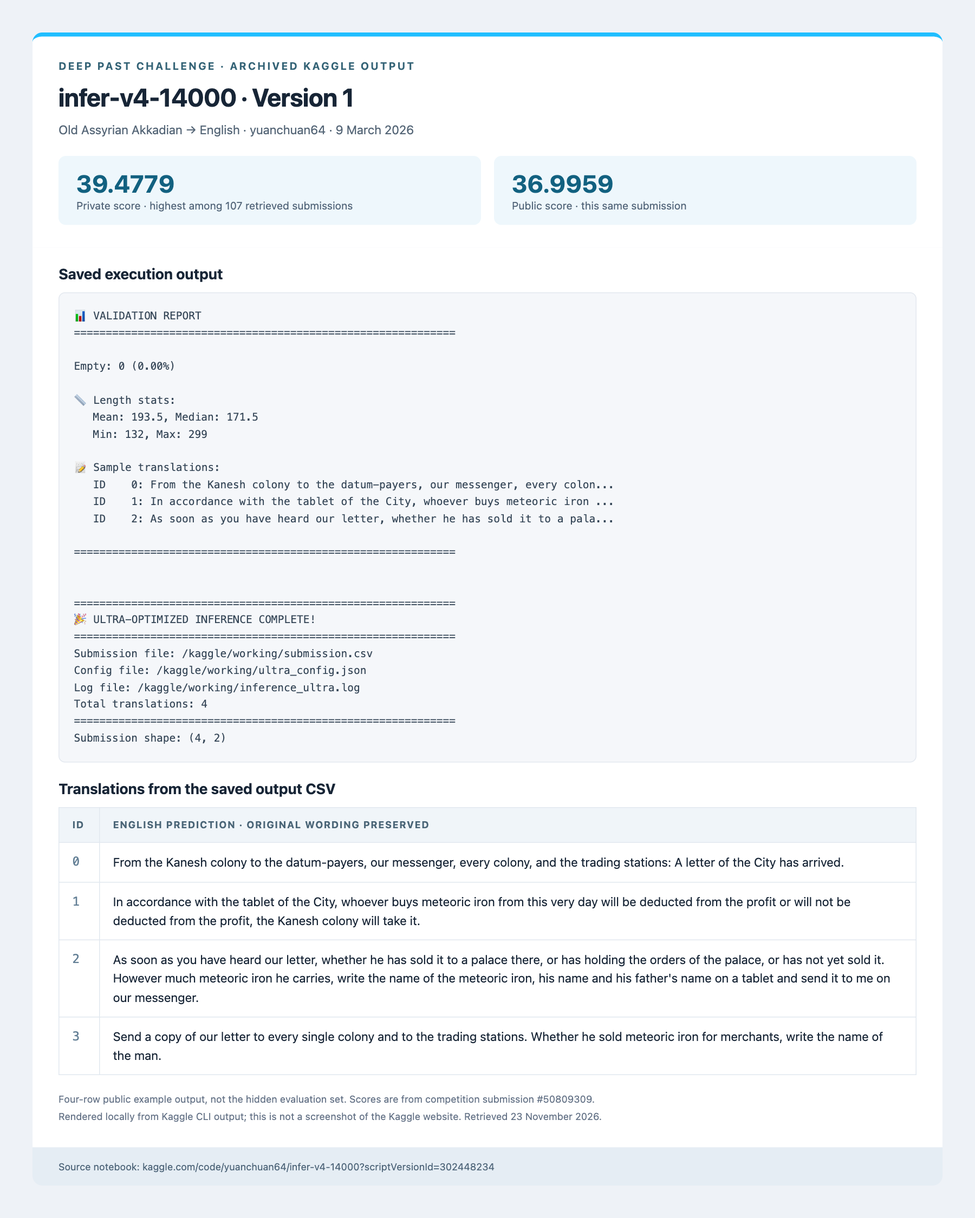
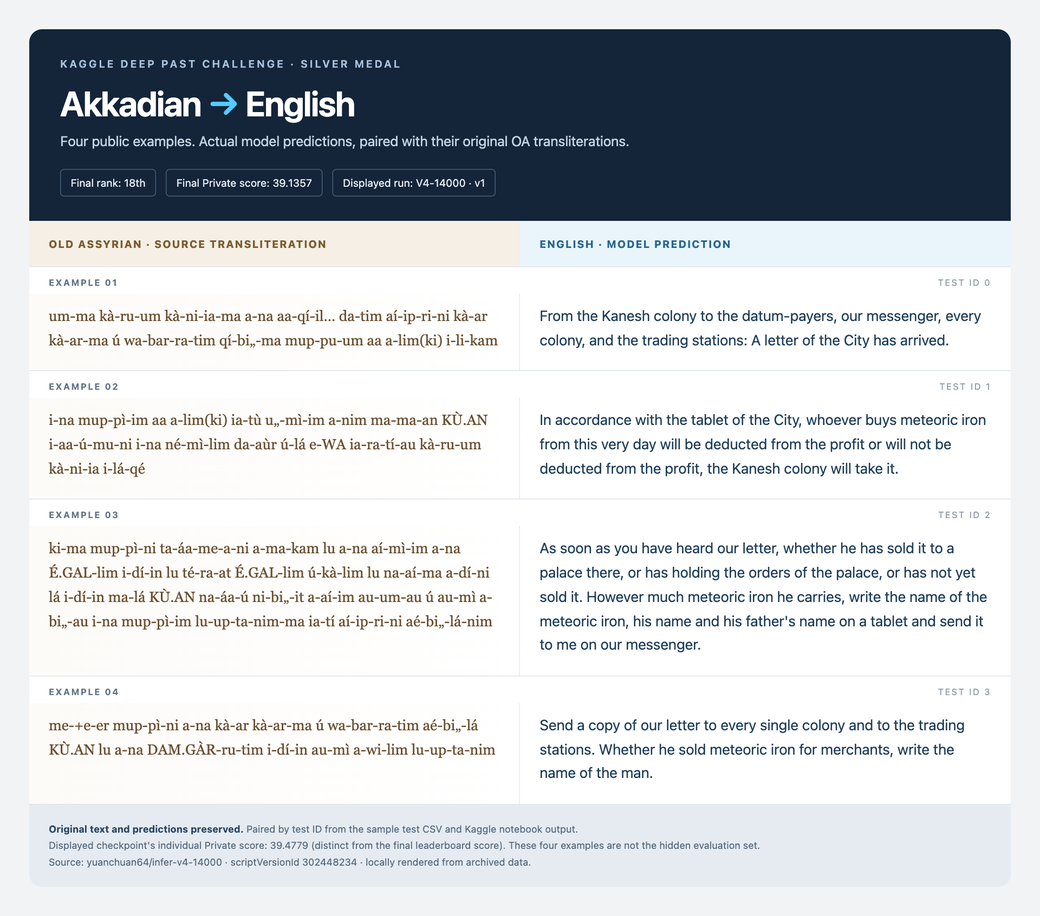
docs: lead with parallel translation showcase and concise project pitch

diff --git a/media/kaggle-v4-14000-output.html b/media/kaggle-v4-14000-output.html
@@ -1,28 +1,2 @@
-<!doctype html><html lang="en"><meta charset="utf-8"><title>Archived Kaggle notebook output</title>
-<style>*{box-sizing:border-box}body{margin:0;background:#eef2f7;color:#172536;font-family:-apple-system,BlinkMacSystemFont,"Segoe UI",sans-serif}main{width:1200px;margin:0 auto;padding:40px}header{border-top:5px solid #20beff;background:white;padding:28px 32px;border-radius:12px 12px 0 0}.eyebrow{font-size:13px;letter-spacing:2px;color:#356477;font-weight:700}h1{margin:12px 0;font-size:31px;letter-spacing:-.6px}.subtitle{font-size:15px;color:#556677}.scores{display:flex;gap:16px;margin-top:24px}.score{background:#eef7fc;padding:16px 22px;border-radius:9px;flex:1}.score strong{font-size:30px;display:block;color:#126180}.score span{font-size:13px;color:#526579}.body{background:#fff;padding:0 32px 28px}h2{font-size:18px;margin:0;padding:22px 0 12px}pre{margin:0;white-space:pre-wrap;overflow-wrap:anywhere;font:13px/1.6 Menlo,monospace;background:#f5f7fa;border:1px solid #e3e8ef;border-radius:8px;padding:18px;color:#354657}table{border-collapse:collapse;width:100%;font-size:15px;line-height:1.55}th{text-align:left;background:#f0f5f9;color:#4a6577;font-size:12px;text-transform:uppercase;letter-spacing:1px}td,th{padding:12px 16px;border:1px solid #e1e8ef;vertical-align:top}td:first-child{width:50px;color:#648096;font-family:Menlo,monospace}.foot{font-size:12px;line-height:1.7;color:#657387;margin:20px 0 0}footer{padding:16px 32px;background:#e5edf4;border-radius:0 0 12px 12px;font-size:12px;color:#4e6579}</style>
-<main><header><div class="eyebrow">DEEP PAST CHALLENGE · ARCHIVED KAGGLE OUTPUT</div><h1>infer-v4-14000 · Version 1</h1><div class="subtitle">Old Assyrian Akkadian → English · yuanchuan64 · 9 March 2026</div><div class="scores"><div class="score"><strong>39.4779</strong><span>Private score · highest among 107 retrieved submissions</span></div><div class="score"><strong>36.9959</strong><span>Public score · this same submission</span></div></div></header><div class="body"><h2>Saved execution output</h2><pre>📊 VALIDATION REPORT
-============================================================
-
-Empty: 0 (0.00%)
-
-📏 Length stats:
-   Mean: 193.5, Median: 171.5
-   Min: 132, Max: 299
-
-📝 Sample translations:
-   ID    0: From the Kanesh colony to the datum-payers, our messenger, every colon...
-   ID    1: In accordance with the tablet of the City, whoever buys meteoric iron ...
-   ID    2: As soon as you have heard our letter, whether he has sold it to a pala...
-
-============================================================
-
-
-============================================================
-🎉 ULTRA-OPTIMIZED INFERENCE COMPLETE!
-============================================================
-Submission file: /kaggle/working/submission.csv
-Config file: /kaggle/working/ultra_config.json
-Log file: /kaggle/working/inference_ultra.log
-Total translations: 4
-============================================================
-Submission shape: (4, 2)</pre><h2>Translations from the saved output CSV</h2><table><thead><tr><th>ID</th><th>English prediction · original wording preserved</th></tr></thead><tbody><tr><td>0</td><td>From the Kanesh colony to the datum-payers, our messenger, every colony, and the trading stations: A letter of the City has arrived.</td></tr><tr><td>1</td><td>In accordance with the tablet of the City, whoever buys meteoric iron from this very day will be deducted from the profit or will not be deducted from the profit, the Kanesh colony will take it.</td></tr><tr><td>2</td><td>As soon as you have heard our letter, whether he has sold it to a palace there, or has holding the orders of the palace, or has not yet sold it. However much meteoric iron he carries, write the name of the meteoric iron, his name and his father&#x27;s name on a tablet and send it to me on our messenger.</td></tr><tr><td>3</td><td>Send a copy of our letter to every single colony and to the trading stations. Whether he sold meteoric iron for merchants, write the name of the man.</td></tr></tbody></table><p class="foot">Four-row public example output, not the hidden evaluation set. Scores are from competition submission #50809309.<br>Rendered locally from Kaggle CLI output; this is not a screenshot of the Kaggle website. Retrieved 23 November 2026.</p></div><footer>Source notebook: kaggle.com/code/yuanchuan64/infer-v4-14000?scriptVersionId=302448234</footer></main></html>
+<!doctype html><html lang="en"><meta charset="utf-8"><title>Akkadian to English · translation examples</title><style>
+*{box-sizing:border-box}body{margin:0;background:#f2f3f5;color:#142439;font-family:-apple-system,BlinkMacSystemFont,"Segoe UI",sans-serif}main{width:1280px;margin:auto;padding:36px}.hero{background:#142439;color:white;padding:34px 38px 30px;border-radius:16px 16px 0 0}.eyebrow{font-size:13px;color:#a7c3dd;letter-spacing:2.6px;font-weight:600}h1{font-size:43px;letter-spacing:-1.3px;margin:15px 0 12px;font-weight:650}h1 span{color:#54cbff}.hero p{margin:0;font-size:17px;color:#c5d4e2}.meta{display:flex;gap:12px;margin-top:24px}.pill{border:1px solid #456078;color:#e6edf3;border-radius:5px;padding:8px 12px;font-size:13px}.head{display:grid;grid-template-columns:1fr 1fr;background:#fff;border-bottom:1px solid #d8e0e8}.head div{padding:20px 24px;font-size:13px;font-weight:750;letter-spacing:1.3px}.head div:first-child{background:#f5efe5;color:#7a5b2c}.head div:last-child{background:#eaf4fb;color:#21658c}.pair{background:#fff;border-bottom:1px solid #d8e0e8}.label{padding:12px 24px 8px;font-size:11px;font-weight:700;color:#627487;letter-spacing:1.5px}.label span{float:right;color:#8e9aa7;font-weight:400}.columns{display:grid;grid-template-columns:1fr 1fr}.columns div{padding:12px 24px 23px;font-size:18px;line-height:1.65;overflow-wrap:anywhere}.oa{font-family:Georgia,"Times New Roman",serif;color:#6b5032;border-right:1px solid #e5e9ee;background:linear-gradient(90deg,#fdfbf8,#fff)}.en{color:#1e3d59}.footer{border-radius:0 0 16px 16px;background:#e5ebf1;padding:20px 24px;font-size:12px;line-height:1.7;color:#55697c}.footer strong{color:#26435f}</style><main><header class="hero"><div class="eyebrow">KAGGLE DEEP PAST CHALLENGE · SILVER MEDAL</div><h1>Akkadian <span>→</span> English</h1><p>Four public examples. Actual model predictions, paired with their original OA transliterations.</p><div class="meta"><div class="pill">Final rank: 18th</div><div class="pill">Final Private score: 39.1357</div><div class="pill">Displayed run: V4-14000 · v1</div></div></header><div class="head"><div>OLD ASSYRIAN · SOURCE TRANSLITERATION</div><div>ENGLISH · MODEL PREDICTION</div></div><section class="pair"><div class="label">EXAMPLE 01 <span>TEST ID 0</span></div><div class="columns"><div class="oa">um-ma kà-ru-um kà-ni-ia-ma a-na aa-qí-il… da-tim aí-ip-ri-ni kà-ar kà-ar-ma ú wa-bar-ra-tim qí-bi„-ma mup-pu-um aa a-lim(ki) i-li-kam</div><div class="en">From the Kanesh colony to the datum-payers, our messenger, every colony, and the trading stations: A letter of the City has arrived.</div></div></section><section class="pair"><div class="label">EXAMPLE 02 <span>TEST ID 1</span></div><div class="columns"><div class="oa">i-na mup-pì-im aa a-lim(ki) ia-tù u„-mì-im a-nim ma-ma-an KÙ.AN i-aa-ú-mu-ni i-na né-mì-lim da-aùr ú-lá e-WA ia-ra-tí-au kà-ru-um kà-ni-ia i-lá-qé</div><div class="en">In accordance with the tablet of the City, whoever buys meteoric iron from this very day will be deducted from the profit or will not be deducted from the profit, the Kanesh colony will take it.</div></div></section><section class="pair"><div class="label">EXAMPLE 03 <span>TEST ID 2</span></div><div class="columns"><div class="oa">ki-ma mup-pì-ni ta-áa-me-a-ni a-ma-kam lu a-na aí-mì-im a-na É.GAL-lim i-dí-in lu té-ra-at É.GAL-lim ú-kà-lim lu na-aí-ma a-dí-ni lá i-dí-in ma-lá KÙ.AN na-áa-ú ni-bi„-it a-aí-im au-um-au ú au-mì a-bi„-au i-na mup-pì-im lu-up-ta-nim-ma ia-tí aí-ip-ri-ni aé-bi„-lá-nim</div><div class="en">As soon as you have heard our letter, whether he has sold it to a palace there, or has holding the orders of the palace, or has not yet sold it. However much meteoric iron he carries, write the name of the meteoric iron, his name and his father&#x27;s name on a tablet and send it to me on our messenger.</div></div></section><section class="pair"><div class="label">EXAMPLE 04 <span>TEST ID 3</span></div><div class="columns"><div class="oa">me-+e-er mup-pì-ni a-na kà-ar kà-ar-ma ú wa-bar-ra-tim aé-bi„-lá KÙ.AN lu a-na DAM.GÀR-ru-tim i-dí-in au-mì a-wi-lim lu-up-ta-nim</div><div class="en">Send a copy of our letter to every single colony and to the trading stations. Whether he sold meteoric iron for merchants, write the name of the man.</div></div></section><footer class="footer"><strong>Original text and predictions preserved.</strong> Paired by test ID from the sample test CSV and Kaggle notebook output.<br>Displayed checkpoint's individual Private score: 39.4779 (distinct from the final leaderboard score). These four examples are not the hidden evaluation set.<br>Source: yuanchuan64/infer-v4-14000 · scriptVersionId 302448234 · locally rendered from archived data.</footer></main></html>

diff --git a/README.md b/README.md
@@ -1,157 +1,55 @@
 <div align="center">
 
-# Deep Past Challenge · Akkadian → English
+# Akkadian → English
 
-### Translating 4,000-year-old records with modern language models.
+### Translating 4,000-year-old records with ByT5-XL
 
-**🥈 Final leaderboard: 18th · Highest leaderboard position: 3rd**
+**🥈 Kaggle Deep Past Challenge · 18th place · Silver medal**<br>
+**Peak leaderboard: #3 · Final Private score: 39.1357**
 
-[![Kaggle: Silver Medal](https://img.shields.io/badge/Kaggle-Silver_Medal-C0C0C0?logo=kaggle&logoColor=white)](https://www.kaggle.com/competitions/deep-past-initiative-machine-translation/leaderboard)
-[![Final rank: 18th](https://img.shields.io/badge/Final_Rank-18th-20BEFF)](https://www.kaggle.com/competitions/deep-past-initiative-machine-translation/leaderboard)
-[![Task: Low-resource MT](https://img.shields.io/badge/Task-Low--resource_MT-7057ff)](#the-challenge)
+[![Model weights](https://img.shields.io/badge/🤗_Hugging_Face-Model_Weights-ffd21e)](https://huggingface.co/TaiE64/OA2Eng-ByT5XL-V4-14000)
+[![Leaderboard](https://img.shields.io/badge/Kaggle-18th_Place-20BEFF?logo=kaggle&logoColor=white)](https://www.kaggle.com/competitions/deep-past-initiative-machine-translation/leaderboard)
 
-**[English](README.md) · [简体中文](README.zh-CN.md)**
-
-[🤗 Model weights](https://huggingface.co/TaiE64/OA2Eng-ByT5XL-V4-14000) · [Best-scoring output](#best-scoring-notebook-output) · [Competition](https://www.kaggle.com/competitions/deep-past-initiative-machine-translation) · [Inference notebooks](submission/README.md) · [Data-format notes](data_format_rules.md) · [Configuration notes](params.md)
+**[English](README.md) · [简体中文](README.zh-CN.md) · [Model](https://huggingface.co/TaiE64/OA2Eng-ByT5XL-V4-14000) · [Run the notebooks](submission/README.md)**
 
 </div>
 
-My competition archive for Kaggle's **Deep Past Challenge — Translate Akkadian to English**, covering Old Assyrian transliteration, data preparation, and notebook inference. The result: **18th place and a silver medal**, with a highest leaderboard position of **3rd**, as recorded in the original project README.
+My silver-medal project for translating **Old Assyrian Akkadian transliterations into English**: public model weights, inference notebooks, and the data-processing work behind the competition.
 
-The useful work here goes beyond a model call: extracting parallel text from scholarly publications, handling damaged-text markers and unusual characters, reconciling document-level data with sentence-level evaluation, and producing translations in an offline Kaggle runtime.
+## See the translations
 
-## At a glance
+![Old Assyrian source text and actual English predictions, side by side](media/kaggle-v4-14000-output.png)
 
-| Result / artifact | Details |
-|---|---|
-| Final leaderboard | **18th · Silver medal · Private score 39.1357** |
-| Highest leaderboard position | **3rd** |
-| Task | Old Assyrian Akkadian transliteration → English |
-| Model entry point | ByT5-XL checkpoint inference notebook, plus a backup notebook |
-| Data work | PDF extraction, text normalization, filtering, deduplication, and sentence-level resources |
-| Evaluation | Corpus-level geometric mean of BLEU and chrF++ |
+*Four public examples from `infer-v4-14000`, paired by ID with their original OA text. Predictions are unchanged. [Text version](media/evidence/v4-14000-parallel-preview.csv) · [Kaggle run](https://www.kaggle.com/code/yuanchuan64/infer-v4-14000?scriptVersionId=302448234) · [Score provenance](media/evidence/provenance.json).*
 
-The [final leaderboard](https://www.kaggle.com/competitions/deep-past-initiative-machine-translation/leaderboard), checked through the Kaggle API, lists **JoJoImpact at rank 18 with score 39.1357**. The silver medal and peak rank follow the author's record. The highest individual Private score below is a different record from the score counted on the final leaderboard.
+The displayed run achieved **39.4779 Private**—the best individual submission in the account. The **final leaderboard result is 18th / 39.1357**; these are different records.
 
-## Best-scoring notebook output
+## Get the model
 
-The authenticated Kaggle API returned **107 submissions** for this competition. Their highest Public and Private scores come from different submissions. **The final leaderboard score is 39.1357; the individual best of 39.4779 was not the score used for the final rank.**
-
-| Selection | Notebook | Public score | Private score |
-|---|---|---:|---:|
-| **Highest Private score** | [infer-v4-14000](https://www.kaggle.com/code/yuanchuan64/infer-v4-14000?scriptVersionId=302448234) | 36.9959 | **39.4779** |
-| Highest Public score | [akkadian-baseline-ref](https://www.kaggle.com/code/yuanchuan64/akkadian-baseline-ref?scriptVersionId=302745772) | **38.5569** | 39.1302 |
-
-![Archived output from the highest-Private-score notebook](media/kaggle-v4-14000-output.png)
-
-*Original Kaggle execution output and predictions, rendered locally for readability. The four examples are from the notebook's public example run, not the hidden evaluation set. Notebook links may require access because the originals are private. [Output CSV](media/evidence/v4-14000-preview.csv) · [Log excerpt](media/evidence/v4-14000-output.txt) · [Score and version provenance](media/evidence/provenance.json).*
-
-## Download the checkpoint
-
-**[🤗 TaiE64/OA2Eng-ByT5XL-V4-14000](https://huggingface.co/TaiE64/OA2Eng-ByT5XL-V4-14000)** is publicly available without gated access. It contains approximately **3.74B parameters**, BF16 safetensors weights, and model/tokenizer configuration files; the download is approximately **7.5 GB**.
+**[🤗 TaiE64/OA2Eng-ByT5XL-V4-14000](https://huggingface.co/TaiE64/OA2Eng-ByT5XL-V4-14000)** · ~3.74B parameters · BF16 · ~7.5 GB · Public download
 
 ```bash
-python -m pip install huggingface_hub
-hf download TaiE64/OA2Eng-ByT5XL-V4-14000 \
-  --revision f328700ddf5095623bb5903105e41b4b8d36da3f \
-  --local-dir ./models/OA2Eng-ByT5XL-V4-14000
+pip install huggingface_hub
+hf download TaiE64/OA2Eng-ByT5XL-V4-14000 --local-dir ./models/OA2Eng-ByT5XL-V4-14000
 ```
 
-Point `UltraConfig.model_path` at the downloaded folder, or attach it as a Kaggle model dataset for offline inference. This owner-provided V4-14000 release matches the version naming of the highest-Private-score notebook's `akkadian-v4-14000` dataset; binary equality between those artifacts has not been checked. It is a separate checkpoint from the archived `fft5400` notebook's default. See the [setup guide](submission/README.md#public-hugging-face-checkpoint).
+Set the notebook's `UltraConfig.model_path` to your model directory. For Kaggle, attach the downloaded model as a dataset and use its mounted path. [Setup and version details →](submission/README.md)
 
-## The challenge
+## Behind the result
 
-The inputs are **Latin-script transliterations of cuneiform texts**, not tablet photographs. They contain syllable separators, diacritics, logograms, determinatives, missing signs, names, quantities, and units. Small formatting differences can therefore matter throughout the translation pipeline.
+- **Data curation:** extract parallel text from scholarly PDFs, filter noisy pairs, and deduplicate sources.
+- **Akkadian normalization:** handle gaps, determinatives, diacritics, subscripts, and fractions.
+- **ByT5 inference:** beam search, length-bucket batching, and translation postprocessing.
 
-There is also a granularity mismatch: the competition's original parallel training data is document-aligned, while evaluation uses sentence-level translations. The [data-format notes](data_format_rules.md) document the alignment problem and the competition-era formatting updates.
+## Explore
 
-The official evaluation aggregates across the corpus:
-
-```text
-score = sqrt(BLEU × chrF++)
-```
-
-See the [competition evaluation](https://www.kaggle.com/competitions/deep-past-initiative-machine-translation/overview) for the scoring definition. The optional sentence-level similarity used by the notebook's MBR selector serves a different purpose.
-
-## What you can explore
-
-- **ByT5-XL checkpoint inference.** The [`fft5400` notebook](submission/fft5400/akkadian-fft5400.ipynb) loads a local sequence-to-sequence checkpoint and generates English translations with beam search.
-- **Domain-specific normalization.** Input processing handles gap markers, determinatives, subscript digits, character variants, floating-point artifacts, and Unicode fractions.
-- **Data extraction from publications.** AKT extraction scripts account for page columns, line numbers, font-encoded diacritics, and superscripts/subscripts when assembling parallel text.
-- **Corpus cleanup.** Helpers inspect overlap and filter empty pairs, abnormal source/target length ratios, duplicate sources, and copy errors.
-- **Inference controls.** Length-bucket batching, configurable generation limits, periodic output checkpoints, and translation postprocessing are implemented in the notebooks.
-- **An optional MBR path.** Candidate generation and a chrF++-style consensus selector are included for experimentation. **MBR is disabled in the checked-in defaults**; no final-score gain is claimed for it.
-
-## Pipeline overview
-
-```mermaid
-flowchart LR
-    A[Competition and external text] --> B[Extract and curate parallel pairs]
-    B --> C[Normalize transliteration and English]
-    C --> D[Model adaptation: training notes]
-    D -. checkpoint required .-> E[Local seq2seq checkpoint]
-    T[Test transliteration] --> N[Input normalization]
-    N --> I[Notebook inference]
-    E --> I
-    I --> P[Translation postprocessing]
-    P --> S[submission.csv]
-```
-
-The data helpers and inference notebooks are available here. Training is represented by [notes](params.md); the full trainer is not included, and model weights are published separately on [Hugging Face](https://huggingface.co/TaiE64/OA2Eng-ByT5XL-V4-14000).
-
-## Start here
-
-| If you want to… | Open |
+| Resource | Contents |
 |---|---|
-| Inspect the inference implementation | [`akkadian-fft5400.ipynb`](submission/fft5400/akkadian-fft5400.ipynb) |
-| Set up a Kaggle run | [Notebook setup guide](submission/README.md) |
-| Compare the backup preprocessing path | [`akkadian-baseline-ref.ipynb`](submission/BackUp_Submission/akkadian-baseline-ref.ipynb) |
-| Understand the text-format pitfalls | [Data-format rules](data_format_rules.md) |
-| Read the PDF extraction logic | [`extract_akt6.py`](data/03_new_extracted/extract_akt6.py), [`extract_akt8.py`](data/03_new_extracted/extract_akt8.py) |
-| Inspect corpus cleaning | [`deep_clean_all.py`](data/01_safe_training/scripts/deep_clean_all.py), [`clean_akt.py`](data/03_new_extracted/clean_akt.py) |
-| Check recorded hyperparameters and notebook defaults | [Configuration notes](params.md) |
+| [Inference notebooks](submission/README.md) | Kaggle setup, checkpoint paths, and runtime details |
+| [Data-format notes](data_format_rules.md) | Competition-specific text normalization and alignment |
+| [PDF extraction](data/03_new_extracted/) | AKT extraction scripts and parallel-text exports |
+| [Training notes](params.md) | Recorded hyperparameters and inference defaults |
 
-To browse locally:
+Special thanks to **Ivan C**, the Deep Past Initiative, and the model and data contributors.
 
-```bash
-git clone https://github.com/TaiE64/KaggleDeepPast-Challenge-Akkadian2English-LB18th.git
-cd KaggleDeepPast-Challenge-Akkadian2English-LB18th
-```
-
-For inference, upload a notebook to Kaggle, attach the competition data and the matching model dataset, and review `UltraConfig` before running. The [setup guide](submission/README.md) lists the dataset identifiers and expected outputs.
-
-## Repository map
-
-```text
-submission/
-  fft5400/                  ByT5-XL checkpoint inference notebook + Kaggle metadata
-  BackUp_Submission/        Backup notebook, saved settings, and example predictions
-  *_wheel*/                 Archived offline dependency assets
-data/
-  competition/              Competition tables and reference metadata
-  01_safe_training/         Curated tables, backups, generated data, cleaning helpers
-  03_new_extracted/         AKT extraction / cleanup scripts and exported pairs
-  03_auxiliary/             Auxiliary reference material
-  04_reference/             Publication and grammar resources (many LFS pointers)
-  external/leiwong/         Extended corpus and dictionary with their own README
-PdfExtraction/              AKT extraction CSV exports
-data_format_rules.md        Detailed competition-era format and data notes
-params.md                   Recorded training notes and current inference defaults
-```
-
-The checked-in `merged_all.csv` contains **69,211 rows**. That is the size of this archived table, not a claim that every row was used in the final training run. Likewise, extraction CSVs represent intermediate versions and should not be added together as a unique corpus total.
-
-## Reproduction notes
-
-- **Download the released weights.** The [V4-14000 checkpoint](https://huggingface.co/TaiE64/OA2Eng-ByT5XL-V4-14000) is public on Hugging Face. Other archived notebooks target different Kaggle datasets; check the model path before running.
-- **Read source, not just saved output.** The notebooks retain older execution logs, including paths/settings that differ from the current source. Run a fresh session to obtain current results.
-- **Check large-file contents.** Several PDFs and large CSVs are Git LFS pointer files in a fresh checkout; resolve the assets before using extraction scripts. The published notebook can be inspected without those PDFs.
-- **Review helper paths.** Some data-cleaning scripts retain original Windows paths and write CSVs in place. Adapt the paths and work on a copy when exploring them.
-
-## Acknowledgements
-
-Special thanks to **Ivan C**, acknowledged in the original project README. Thanks also to the Deep Past Initiative and Kaggle organizers, the scholars behind the source texts and translations, and the model and data contributors whose work supports this archive.
-
-Third-party datasets, publications, models, and dependency assets retain their own terms and attribution. No repository-wide code license is currently specified.
-
-If the notebooks or data-processing notes help your work on low-resource translation, **a star is appreciated**. Reproducible issues and improvements to the documentation, preprocessing, or setup are welcome.
+**If this helps your low-resource NLP work, give it a ⭐ and share what you build.**

diff --git a/README.zh-CN.md b/README.zh-CN.md
@@ -1,118 +1,55 @@
 <div align="center">
 
-# Deep Past Challenge · 阿卡德语 → 英语
+# 阿卡德语 → 英语
 
-### 用现代语言模型，读懂四千年前的商业文书。
+### 用 ByT5-XL，读懂四千年前的商业文书
 
-**🥈 最终第 18 名 · 银牌 · 最高冲到第 3 名**
+**🥈 Kaggle Deep Past Challenge · 最终第 18 名 · 银牌**<br>
+**最高榜位：第 3 名 · 最终 Private 分：39.1357**
 
-[![Kaggle: Silver Medal](https://img.shields.io/badge/Kaggle-Silver_Medal-C0C0C0?logo=kaggle&logoColor=white)](https://www.kaggle.com/competitions/deep-past-initiative-machine-translation/leaderboard)
-[![Final rank: 18th](https://img.shields.io/badge/Final_Rank-18th-20BEFF)](https://www.kaggle.com/competitions/deep-past-initiative-machine-translation/leaderboard)
+[![Model weights](https://img.shields.io/badge/🤗_Hugging_Face-Model_Weights-ffd21e)](https://huggingface.co/TaiE64/OA2Eng-ByT5XL-V4-14000)
+[![Leaderboard](https://img.shields.io/badge/Kaggle-18th_Place-20BEFF?logo=kaggle&logoColor=white)](https://www.kaggle.com/competitions/deep-past-initiative-machine-translation/leaderboard)
 
-[English](README.md) · **简体中文** · [🤗 模型权重](https://huggingface.co/TaiE64/OA2Eng-ByT5XL-V4-14000) · [比赛主页](https://www.kaggle.com/competitions/deep-past-initiative-machine-translation) · [推理运行指南](submission/README.md)
+**[English](README.md) · 简体中文 · [下载模型](https://huggingface.co/TaiE64/OA2Eng-ByT5XL-V4-14000) · [运行指南](submission/README.md)**
 
 </div>
 
-这是我参加 Kaggle **Deep Past Challenge — Translate Akkadian to English** 的项目归档。比赛要求将古亚述阿卡德语的转写文本翻译成英语；我最终取得 **第 18 名、银牌**，比赛期间最高到过 **第 3 名**。
+我的 Kaggle 银牌项目：把**古亚述阿卡德语转写文本翻译成英语**。这里分享模型权重、推理 notebook，以及比赛中的数据处理经验。
 
-仓库保留了围绕这项任务做的数据与推理工作：**从学术文献提取平行语料、清洗和统一文本格式，再用序列到序列模型生成英文译文**。除了成绩，也希望这些处理低资源语言数据的经验能被更多人复用。
+## 直接看翻译效果
 
-## 项目看点
+![OA 原文与模型英文译文左右对照](media/kaggle-v4-14000-output.png)
 
-| 方面 | 内容 |
-|---|---|
-| 比赛成绩 | 最终 **18th / Silver**，最终 Private 分 **39.1357**；最高榜位 **3rd** |
-| 模型入口 | ByT5-XL checkpoint 推理 notebook，以及备用 notebook |
-| 数据工程 | PDF 对译提取、字符与残缺标记规范化、过滤、去重、句子级资源 |
-| 推理实现 | Beam search、按长度分桶、生成参数控制、结果检查与后处理 |
-| 可选实验 | 基于 chrF++ 风格相似度的 MBR 候选选择；当前默认关闭 |
-| 评估指标 | 语料级 BLEU 与 chrF++ 的几何平均 |
+*四条公开样例，按 ID 对齐 OA 原文与 `infer-v4-14000` 的真实输出，译文未改写。[文字版](media/evidence/v4-14000-parallel-preview.csv) · [Kaggle 运行版本](https://www.kaggle.com/code/yuanchuan64/infer-v4-14000?scriptVersionId=302448234) · [成绩记录](media/evidence/provenance.json)。*
 
-已通过 Kaggle API 核对[最终榜单](https://www.kaggle.com/competitions/deep-past-initiative-machine-translation/leaderboard)：**JoJoImpact 第 18 名，最终计分 39.1357**。银牌与最高榜位沿用作者记录。下方的单次最高 Private 分是另一项记录，不是最终榜单采用的分数。
+展示版本的单次 **Private 分为 39.4779**，是账号所有提交中的最高值；**最终榜单成绩为第 18 名 / 39.1357**，两者分开标注。
 
-## 最高分 notebook 的真实输出
+## 下载模型
 
-已核对本场比赛的 **107 条提交**。Public 与 Private 最高分来自不同提交。**最终榜单使用 39.1357；单次最高的 39.4779 并未作为最终排名分数。**
-
-| 记录 | Notebook | Public | Private |
-|---|---|---:|---:|
-| **Private 最高分** | [infer-v4-14000](https://www.kaggle.com/code/yuanchuan64/infer-v4-14000?scriptVersionId=302448234) | 36.9959 | **39.4779** |
-| Public 最高分 | [akkadian-baseline-ref](https://www.kaggle.com/code/yuanchuan64/akkadian-baseline-ref?scriptVersionId=302745772) | **38.5569** | 39.1302 |
-
-![最高 Private 分版本的 Kaggle 原始运行输出](media/kaggle-v4-14000-output.png)
-
-*图中内容取自 Kaggle 保存的原始日志和预测 CSV，在本地排版渲染；不是 Kaggle 网页截图。展示的是 4 条公开样例，非隐藏评估集。原 notebook 为私有，访问链接可能需要权限。[原始预测 CSV](media/evidence/v4-14000-preview.csv) · [日志片段](media/evidence/v4-14000-output.txt) · [分数与版本记录](media/evidence/provenance.json)。*
-
-## 下载公开模型
-
-**[🤗 TaiE64/OA2Eng-ByT5XL-V4-14000](https://huggingface.co/TaiE64/OA2Eng-ByT5XL-V4-14000)** 已公开，无需申请访问。仓库包含约 **3.74B 参数**的 BF16 safetensors 权重以及模型、tokenizer 配置，下载约 **7.5 GB**。
+**[🤗 TaiE64/OA2Eng-ByT5XL-V4-14000](https://huggingface.co/TaiE64/OA2Eng-ByT5XL-V4-14000)** · 约 3.74B 参数 · BF16 · 约 7.5 GB · 公开下载
 
 ```bash
-python -m pip install huggingface_hub
-hf download TaiE64/OA2Eng-ByT5XL-V4-14000 \
-  --revision f328700ddf5095623bb5903105e41b4b8d36da3f \
-  --local-dir ./models/OA2Eng-ByT5XL-V4-14000
+pip install huggingface_hub
+hf download TaiE64/OA2Eng-ByT5XL-V4-14000 --local-dir ./models/OA2Eng-ByT5XL-V4-14000
 ```
 
-将 notebook 的 `UltraConfig.model_path` 指向下载目录，或把模型挂载为 Kaggle 数据集后离线推理。HF 发布版本与最高 Private 分 notebook 使用的数据集名称均为 V4-14000，但未做二进制一致性校验；它与归档中 `fft5400` 的默认 checkpoint 是不同版本。
+将 notebook 的 `UltraConfig.model_path` 指向模型目录；在 Kaggle 上运行时，把模型挂载为数据集并填写对应路径。[详细运行说明 →](submission/README.md)
 
-## 这道题难在哪里？
+## 方案亮点
 
-**输入是楔形文字的拉丁字母转写，不是泥板照片。** 文本里包含音节分隔符、变音符号、苏美尔语词符、限定词、残缺标记、人名，以及各种数量和单位。格式处理会贯穿数据准备、模型输入和输出后处理。
+- **数据整理：** 从学术 PDF 提取对译，过滤噪声并去重。
+- **转写规范化：** 处理残缺标记、限定词、变音符号、下标与分数。
+- **ByT5 推理：** Beam search、按长度分桶，以及译文后处理。
 
-另一个关键问题是粒度不一致：原始训练对译按文档对齐，评估则使用句子级翻译。完整的数据格式变化和处理记录见 [data_format_rules.md](data_format_rules.md)。
+## 继续探索
 
-比赛按整个语料计算：
-
-```text
-score = sqrt(BLEU × chrF++)
-```
-
-指标定义见 [Kaggle 官方说明](https://www.kaggle.com/competitions/deep-past-initiative-machine-translation/overview)。Notebook 的可选 MBR 路径使用句子级候选相似度，两者用途不同。
-
-## 仓库中可以直接研究什么？
-
-- **推理代码：** [fft5400 notebook](submission/fft5400/akkadian-fft5400.ipynb) 从本地加载模型与 tokenizer，执行 beam search 并输出英文译文。
-- **转写规范化：** 统一 `<gap>`、限定词、Unicode 下标、字符变体、浮点数伪影和分数格式。
-- **PDF 提取：** [AKT 6 提取脚本](data/03_new_extracted/extract_akt6.py) 处理双栏版面、行号、字体编码的变音符号及上下标；[AKT 8 脚本](data/03_new_extracted/extract_akt8.py) 提供另一组出版物提取逻辑。
-- **语料清洗：** 检查空对译、异常长度比例、重复源文本和源目标相同的复制错误。
-- **候选选择实验：** 代码保留 MBR 分支，但当前默认 `use_mbr=False`，不把它描述为最终成绩的已验证增益。
-
-## 如何开始
-
-```bash
-git clone https://github.com/TaiE64/KaggleDeepPast-Challenge-Akkadian2English-LB18th.git
-cd KaggleDeepPast-Challenge-Akkadian2English-LB18th
-```
-
-1. 先读 [推理运行指南](submission/README.md)，选择 notebook。
-2. 在 Kaggle 准备比赛数据与对应 checkpoint，检查 `UltraConfig` 中的路径。
-3. 运行新会话，检查生成的 `submission.csv`、配置和日志。
-4. 想理解数据侧处理，接着看 [格式规则](data_format_rules.md) 与 [参数记录](params.md)。
-
-模型权重已单独发布在 [Hugging Face](https://huggingface.co/TaiE64/OA2Eng-ByT5XL-V4-14000)；Git 仓库未包含完整训练程序，训练部分目前保留的是参数笔记。当前归档适合阅读、分析和适配，完整复现最终成绩还需要匹配的训练与提交资产。
-
-## 目录导航
-
-| 路径 | 内容 |
+| 入口 | 内容 |
 |---|---|
-| [submission/fft5400/](submission/fft5400/) | ByT5-XL checkpoint 推理 notebook 与 Kaggle 元数据 |
-| [submission/BackUp_Submission/](submission/BackUp_Submission/) | 备用 notebook、保存的配置和示例预测 |
-| [data/01_safe_training/](data/01_safe_training/) | 整理后的数据表、备份、生成数据及清洗脚本 |
-| [data/03_new_extracted/](data/03_new_extracted/) | AKT 提取、清洗脚本与导出结果 |
-| [PdfExtraction/](PdfExtraction/) | AKT 对译 CSV 导出 |
-| [data/competition/](data/competition/) | 比赛数据表和参考元数据 |
-| [data/04_reference/](data/04_reference/) | 出版物和语法资源，许多文件为 LFS 指针 |
-| [data/external/leiwong/](data/external/leiwong/) | 附带独立说明的扩展语料与词典 |
+| [推理 notebook](submission/README.md) | Kaggle 运行方法、模型路径与版本说明 |
+| [数据格式笔记](data_format_rules.md) | 文本规范化与对齐中的问题 |
+| [PDF 提取](data/03_new_extracted/) | AKT 提取脚本与对译导出 |
+| [参数记录](params.md) | 训练笔记与推理配置 |
 
-当前 `merged_all.csv` 实测包含 **69,211 行**，这是该归档表的行数，不代表最终训练使用了全部记录。不同提取版本之间可能有重叠，不能直接相加当成唯一语料总量。
+特别感谢 **Ivan C**、Deep Past Initiative，以及相关模型和数据的贡献者。
 
-运行前注意三点：notebook 的旧输出可能与现有源码不同；部分大文件需要先获取实际内容；一些数据脚本仍保留原 Windows 路径并原地写回 CSV，探索时应使用副本。
-
-## 致谢
-
-特别感谢原 README 中致谢的 **Ivan C**。也感谢 Deep Past Initiative、Kaggle、原始文献与翻译的学者，以及相关模型和数据的贡献者。
-
-第三方数据、出版物、模型和依赖资产保留各自许可与署名要求；仓库目前未指定统一的代码许可证。
-
-如果这些代码和记录对你的低资源机器翻译研究有帮助，欢迎 **Star**，也欢迎交流数据处理、推理复现和古语言翻译中的问题。
+**如果对你的低资源 NLP 研究有帮助，欢迎点个 ⭐，也欢迎交流复现与改进。**

diff --git a/submission/README.md b/submission/README.md
@@ -8,7 +8,15 @@ This directory contains two Kaggle inference notebooks and archived runtime asse
 
 The owner has published **[TaiE64/OA2Eng-ByT5XL-V4-14000](https://huggingface.co/TaiE64/OA2Eng-ByT5XL-V4-14000)**. It is accessible without login and includes `model.safetensors`, `config.json`, `generation_config.json`, and `tokenizer_config.json`.
 
-Download with the pinned command in the [main README](../README.md#download-the-checkpoint), then set `UltraConfig.model_path` to that folder. For an offline Kaggle run, download beforehand and attach the model files as a dataset. Keep the notebook's generation limits and preprocessing; the checkpoint's saved generation configuration alone is not the competition recipe.
+For an exact model snapshot:
+
+```bash
+hf download TaiE64/OA2Eng-ByT5XL-V4-14000 \
+  --revision f328700ddf5095623bb5903105e41b4b8d36da3f \
+  --local-dir ./models/OA2Eng-ByT5XL-V4-14000
+```
+
+Set `UltraConfig.model_path` to that folder. For an offline Kaggle run, download beforehand and attach the model files as a dataset. Keep the notebook's generation limits and preprocessing; the checkpoint's saved generation configuration alone is not the competition recipe.
 
 The final leaderboard records **JoJoImpact, rank 18, score 39.1357**. Separately, the highest Private score among the 107 retrieved submissions is **39.4779**, from [infer-v4-14000, script version 302448234](https://www.kaggle.com/code/yuanchuan64/infer-v4-14000?scriptVersionId=302448234), with Public score **36.9959**. The Kaggle API exposes this notebook as version 1. Its dataset name is `yuanchuan64/akkadian-v4-14000`; the HF artifact is owner-provided with matching version naming, without a binary-identity check. The notebook is currently private, while the HF model and [archived output preview](../media/evidence/v4-14000-preview.csv) are publicly available.
 
@@ -75,3 +83,9 @@ The committed CSV in `BackUp_Submission/` is an archived prediction artifact. It
 With `use_mbr=True`, the notebook can generate a candidate pool using beams and optional sampling, then choose a translation using an inline chrF++-style sentence-similarity function. Candidate counts and sampling settings are exposed as `mbr_*` fields.
 
 This helper is distinct from the official corpus-level BLEU/chrF++ competition evaluation. Both notebooks and the saved backup configuration have MBR disabled by default. Any effect on quality or runtime needs a separate evaluation with fixed data and model weights.
+
+## Data and attribution notes
+
+The archived `merged_all.csv` has 69,211 rows; this is not a statement that every row was used in the final training run. Extraction outputs may overlap. Some data scripts retain original Windows paths and write CSVs in place, and many large PDFs/CSVs are LFS pointers in a fresh checkout.
+
+Third-party datasets, publications, models, and dependency assets retain their own terms and attribution. No repository-wide code license is currently specified.
